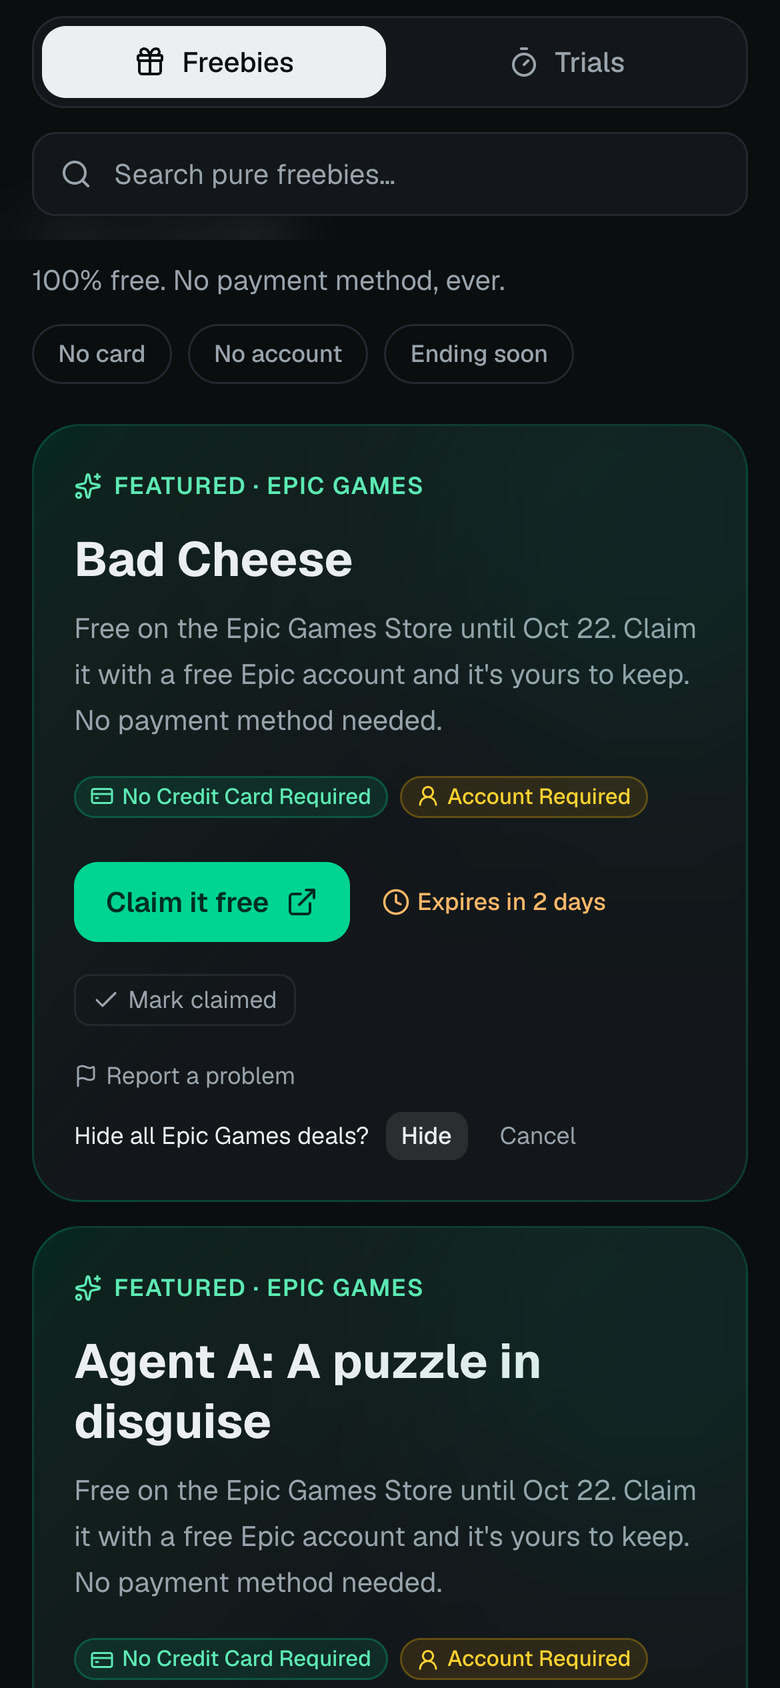
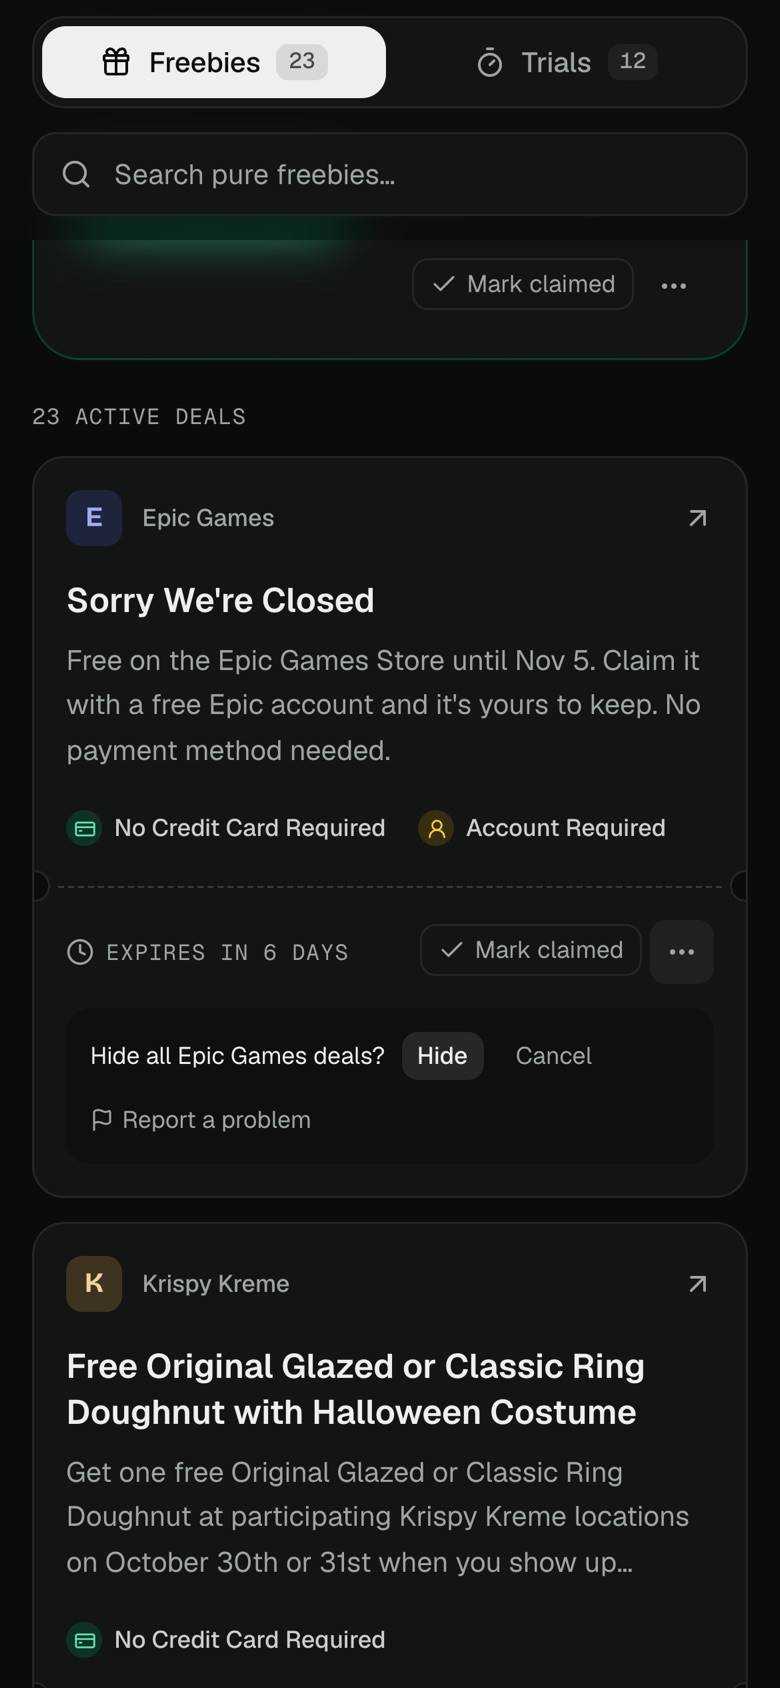
Docs: fresh README screenshots of the new design; add Dependabot config

diff --git a/README.md b/README.md
@@ -7,7 +7,7 @@
 
 **Good-Faith Freebies:** a deal aggregator that only lists verified, no-strings-attached offers. No affiliate links, no "free with purchase", no trials that end the moment you cancel. New deals are found, checked and published every night with no manual work, for under $15 a year.
 
-![ZeroCatch home feed on desktop: two featured Epic Games giveaways with badges and expiry](docs/screenshots/desktop-feed.jpg)
+![ZeroCatch home feed on desktop: a featured free shampoo sample ticket with a $0.00 stamp, badges and a live countdown, above the deal grid](docs/screenshots/desktop-feed.jpg)
 
 ### See it in action
 
@@ -19,12 +19,12 @@
 
 | Pure Freebies | Instant-Cancel Trials | Grouped indie games |
 | :---: | :---: | :---: |
-| ![Phone view of the Pure Freebies feed](docs/screenshots/mobile-feed.jpg) | ![Trials tab sorted longest first, with Card Required and Instant-Cancel Safe badges](docs/screenshots/mobile-trials.jpg) | ![A folder collapsing 12 free itch.io games into one card](docs/screenshots/mobile-itch-folder.jpg) |
-| Free with no payment method. Epic's weekly games are featured. | Trials you can cancel on day one and keep for the full period, longest first. | Three or more itch.io giveaways fold into one card so they can't crowd the feed. |
+| ![Phone view of the Pure Freebies feed](docs/screenshots/mobile-feed.jpg) | ![Trials tab sorted longest first, with Card Required and Instant-Cancel Safe badges](docs/screenshots/mobile-trials.jpg) | ![A folder collapsing 15 free itch.io games into one card](docs/screenshots/mobile-itch-folder.jpg) |
+| Free with no payment method. The freebie ending soonest is featured. | Trials you can cancel on day one and keep for the full period, longest first. | Three or more itch.io giveaways fold into one card so they can't crowd the feed. |
 
 | Hide a vendor | Hidden vendors | Deal-alert email |
 | :---: | :---: | :---: |
-| ![Confirm prompt: Hide all Epic Games deals?](docs/screenshots/mobile-hide-confirm.jpg) | ![Feed with an Epic Games chip: Hiding 2 deals from Epic Games](docs/screenshots/mobile-hidden.jpg) | ![Nightly digest email listing five new deals with terms and end dates](docs/screenshots/alert-email.jpg) |
+| ![Confirm prompt: Hide all Epic Games deals?](docs/screenshots/mobile-hide-confirm.jpg) | ![Feed with an Epic Games chip: Hiding 1 deal from Epic Games](docs/screenshots/mobile-hidden.jpg) | ![Nightly digest email listing five new deals with terms and end dates](docs/screenshots/alert-email.jpg) |
 | Not into a store? Hide every deal from it, signed in or not. | Hidden vendors stay out of the feed and emails; tap a chip to bring one back. | Opt-in daily or weekly digests by topic, with one-click unsubscribe. |
 
 - **Badges on every deal:** card required or not, account required or not, instant-cancel safe, and a live countdown to the end date.
